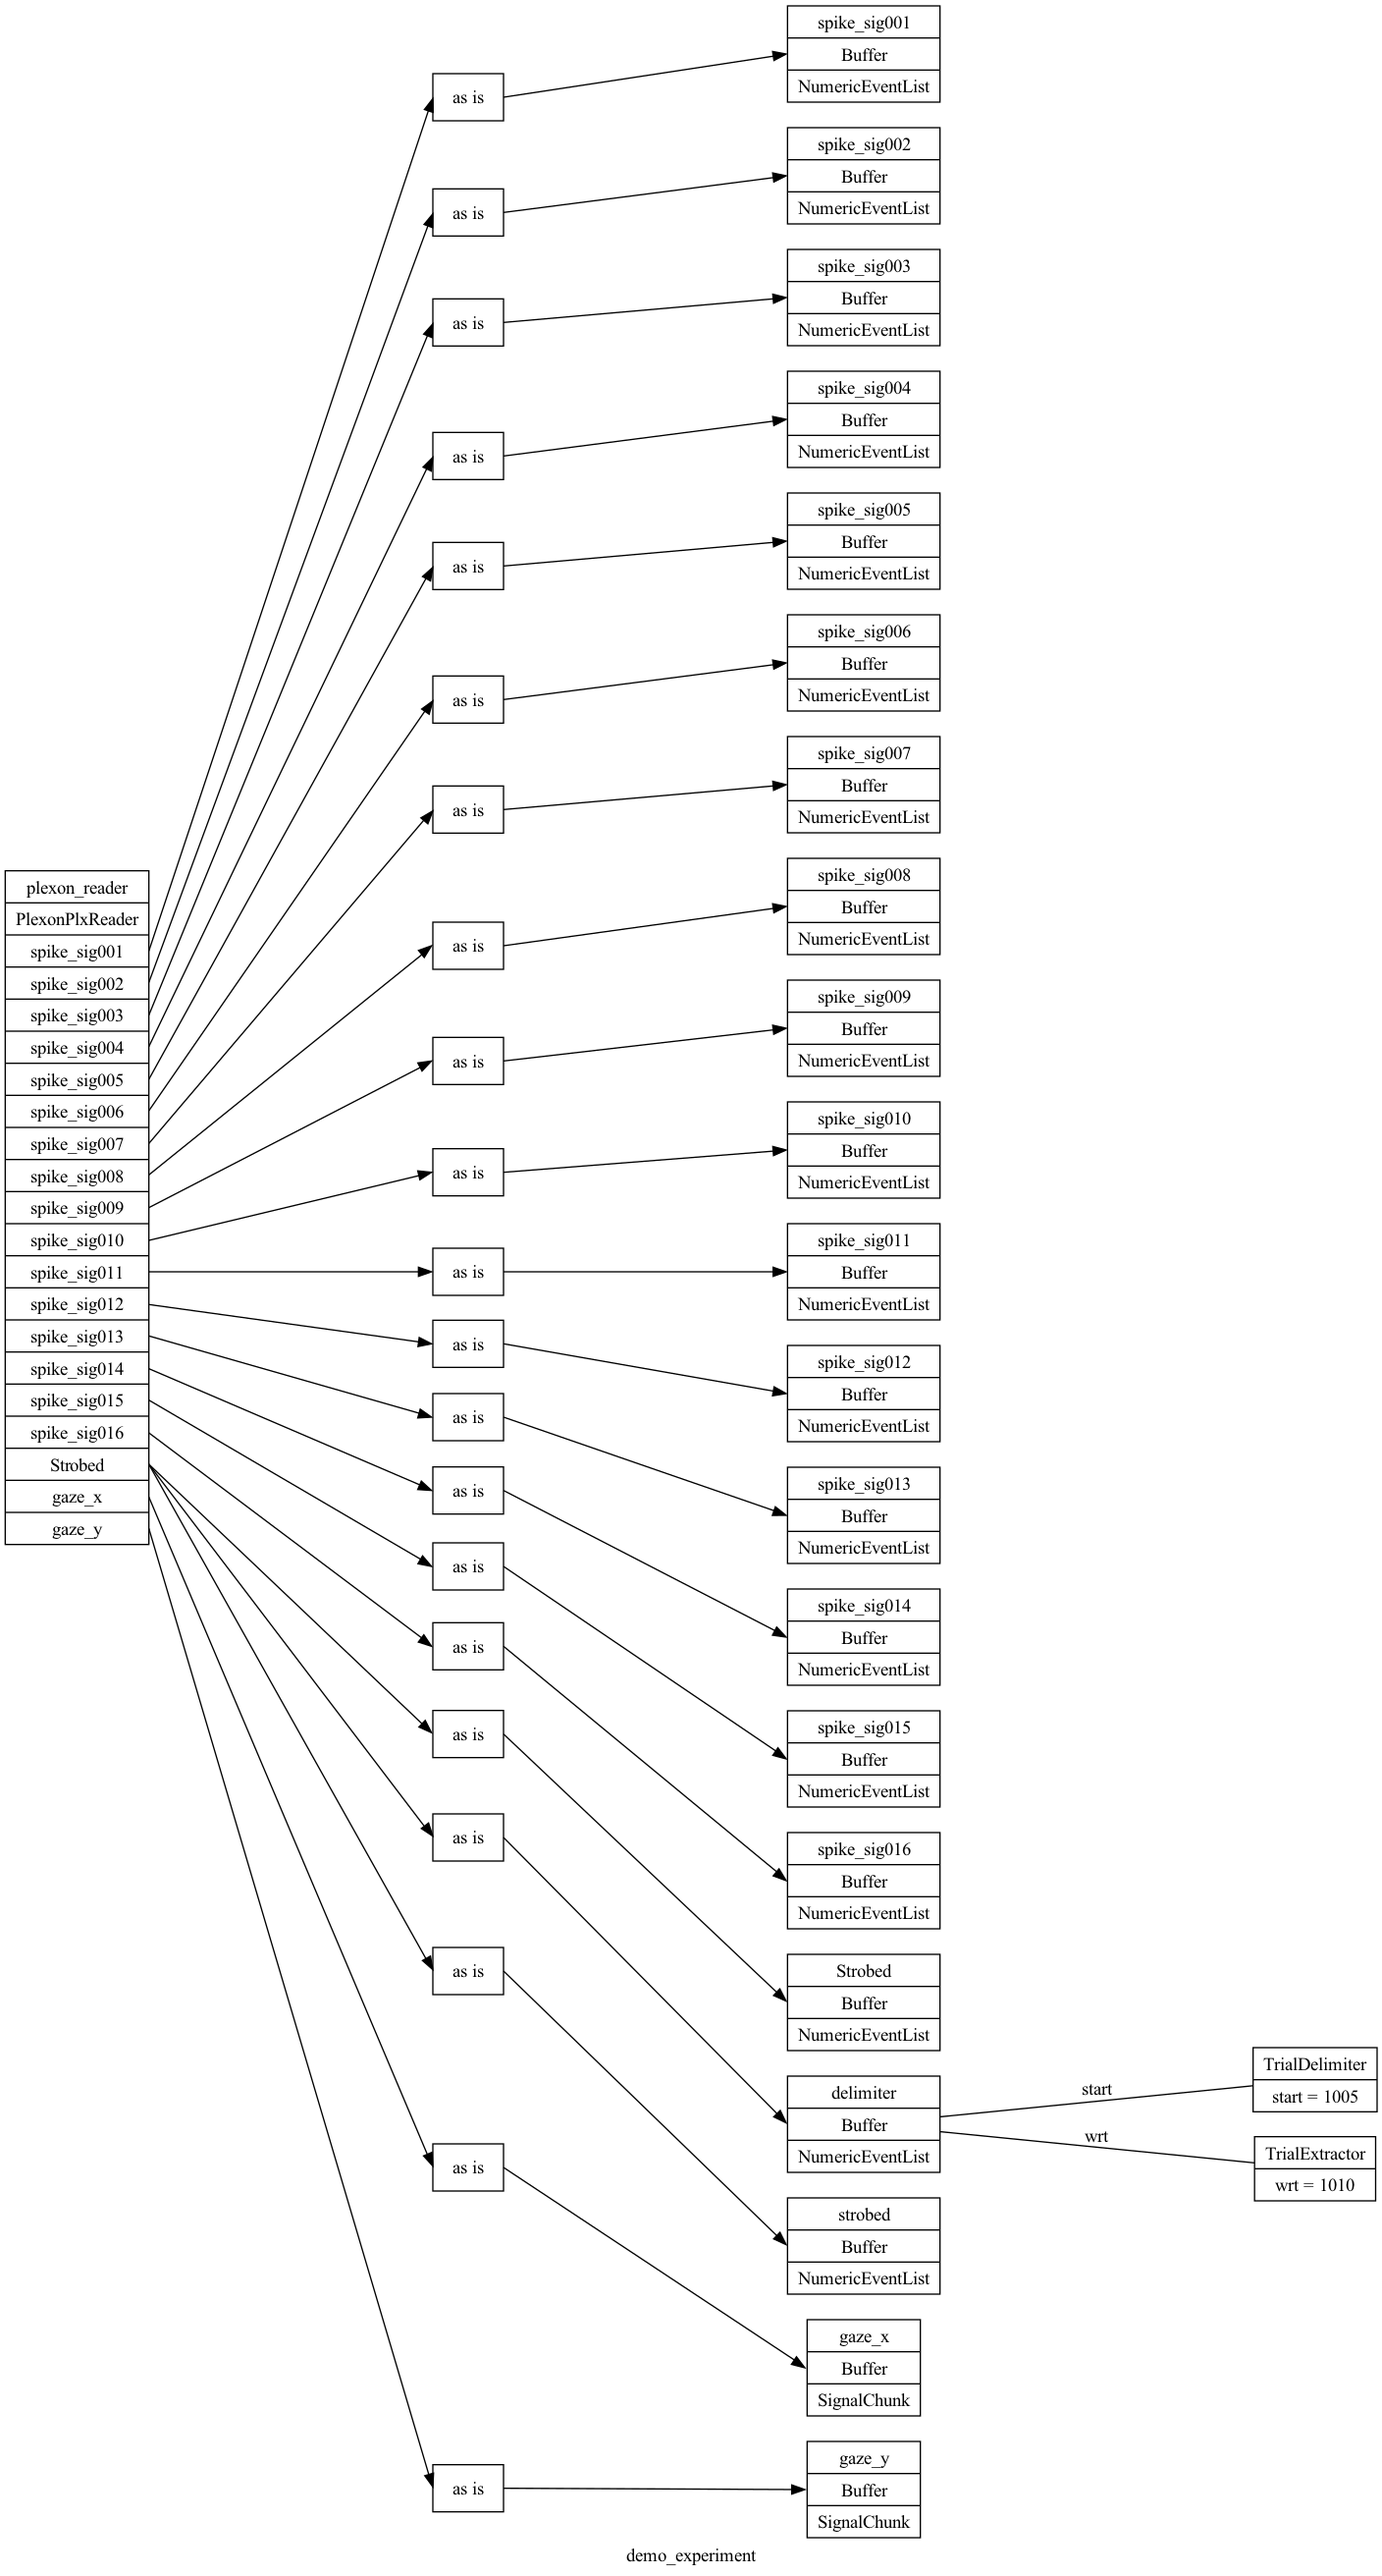
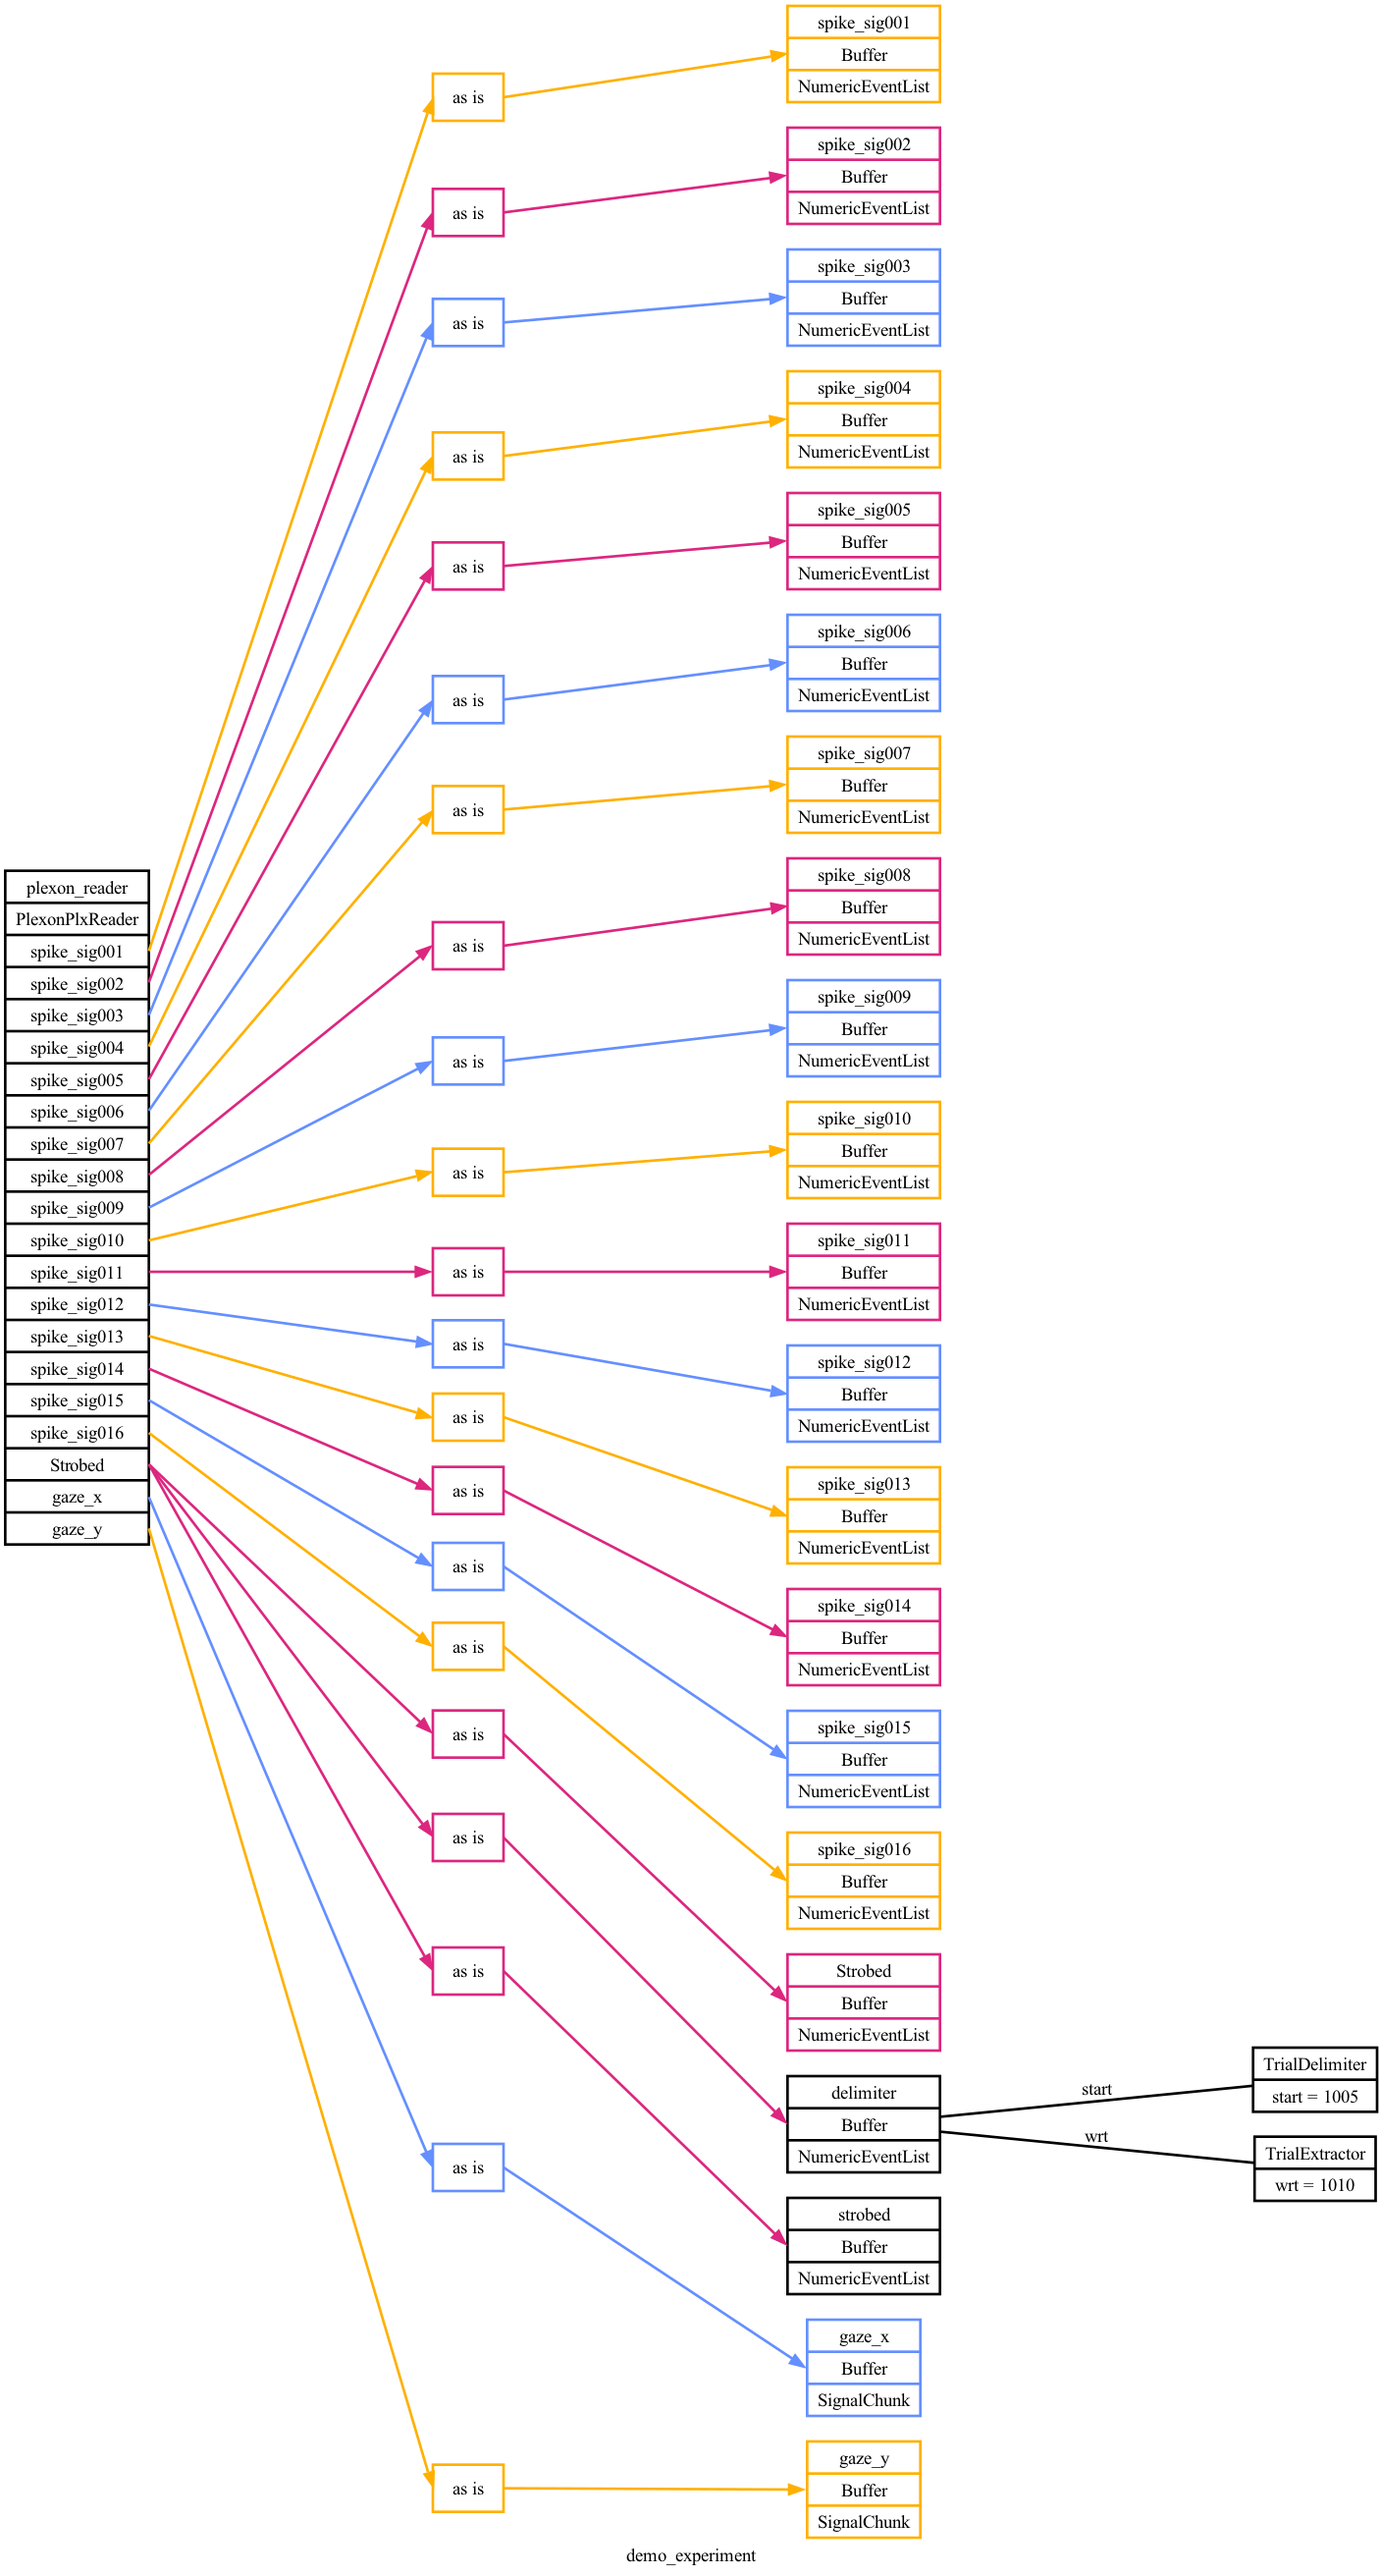
Try color-coding Pyramid routes from reader to buffer.

diff --git a/pyramid/src/pyramid/context.py b/pyramid/src/pyramid/context.py
@@ -201,15 +201,29 @@ class PyramidContext():
                 "splines": "false",
                 "overlap": "scale",
                 "ranksep": "3.0"
+            },
+            node_attr={
+                "penwidth": "2.0"
+            },
+            edge_attr={
+                "penwidth": "2.0"
             }
         )
 
         named_routers = {}
+        results_styles = {}
 
-        for name, reader in self.readers.items():
+        for reader_index, (name, reader) in enumerate(self.readers.items()):
             label = f"{name}|{reader.__class__.__name__}"
-            for results_key in reader.get_initial().keys():
+            for result_index, results_key in enumerate(reader.get_initial().keys()):
                 label += f"|<{results_key}>{results_key}"
+                style_index = (reader_index + result_index) % 3
+                if style_index == 2:
+                    results_styles[results_key] = {"color": '#648FFF'}
+                elif style_index == 1:
+                    results_styles[results_key] = {"color": '#DC267F'}
+                else:
+                    results_styles[results_key] = {"color": '#FFB000'}
 
             dot.node(name=name, label=label, shape="record")
             for router in self.routers:
@@ -220,24 +234,25 @@ class PyramidContext():
         wrt_buffer_name = None
         for name, buffer in self.named_buffers.items():
             label = f"{name}|{buffer.__class__.__name__}|{buffer.data.__class__.__name__}"
-            dot.node(name=name, label=label, shape="record")
+            buffer_style = results_styles.get(name, {})
+            dot.node(name=name, label=label, shape="record", **buffer_style)
             if buffer is self.trial_delimiter.start_buffer:
                 start_buffer_name = name
             if buffer is self.trial_extractor.wrt_buffer:
                 wrt_buffer_name = name
 
         for reader_name, router in named_routers.items():
-            for index, route in enumerate(router.routes):
-                route_name = f"{reader_name}_route_{index}"
+            for result_index, route in enumerate(router.routes):
+                route_name = f"{reader_name}_route_{result_index}"
                 if route.transformers:
                     labels = [transformer.__class__.__name__ for transformer in route.transformers]
                     route_label = "|".join(labels)
                 else:
                     route_label = "as is"
-                dot.node(name=route_name, label=route_label, shape="record")
+                dot.node(name=route_name, label=route_label, shape="record", **results_styles[route.results_key])
 
-                dot.edge(f"{reader_name}:{route.results_key}:e", f"{route_name}:w")
-                dot.edge(f"{route_name}:e", f"{route.buffer_name}:w")
+                dot.edge(f"{reader_name}:{route.results_key}:e", f"{route_name}:w", **results_styles[route.results_key])
+                dot.edge(f"{route_name}:e", f"{route.buffer_name}:w", **results_styles[route.results_key])
 
         dot.node(
             name="trial_delimiter",
